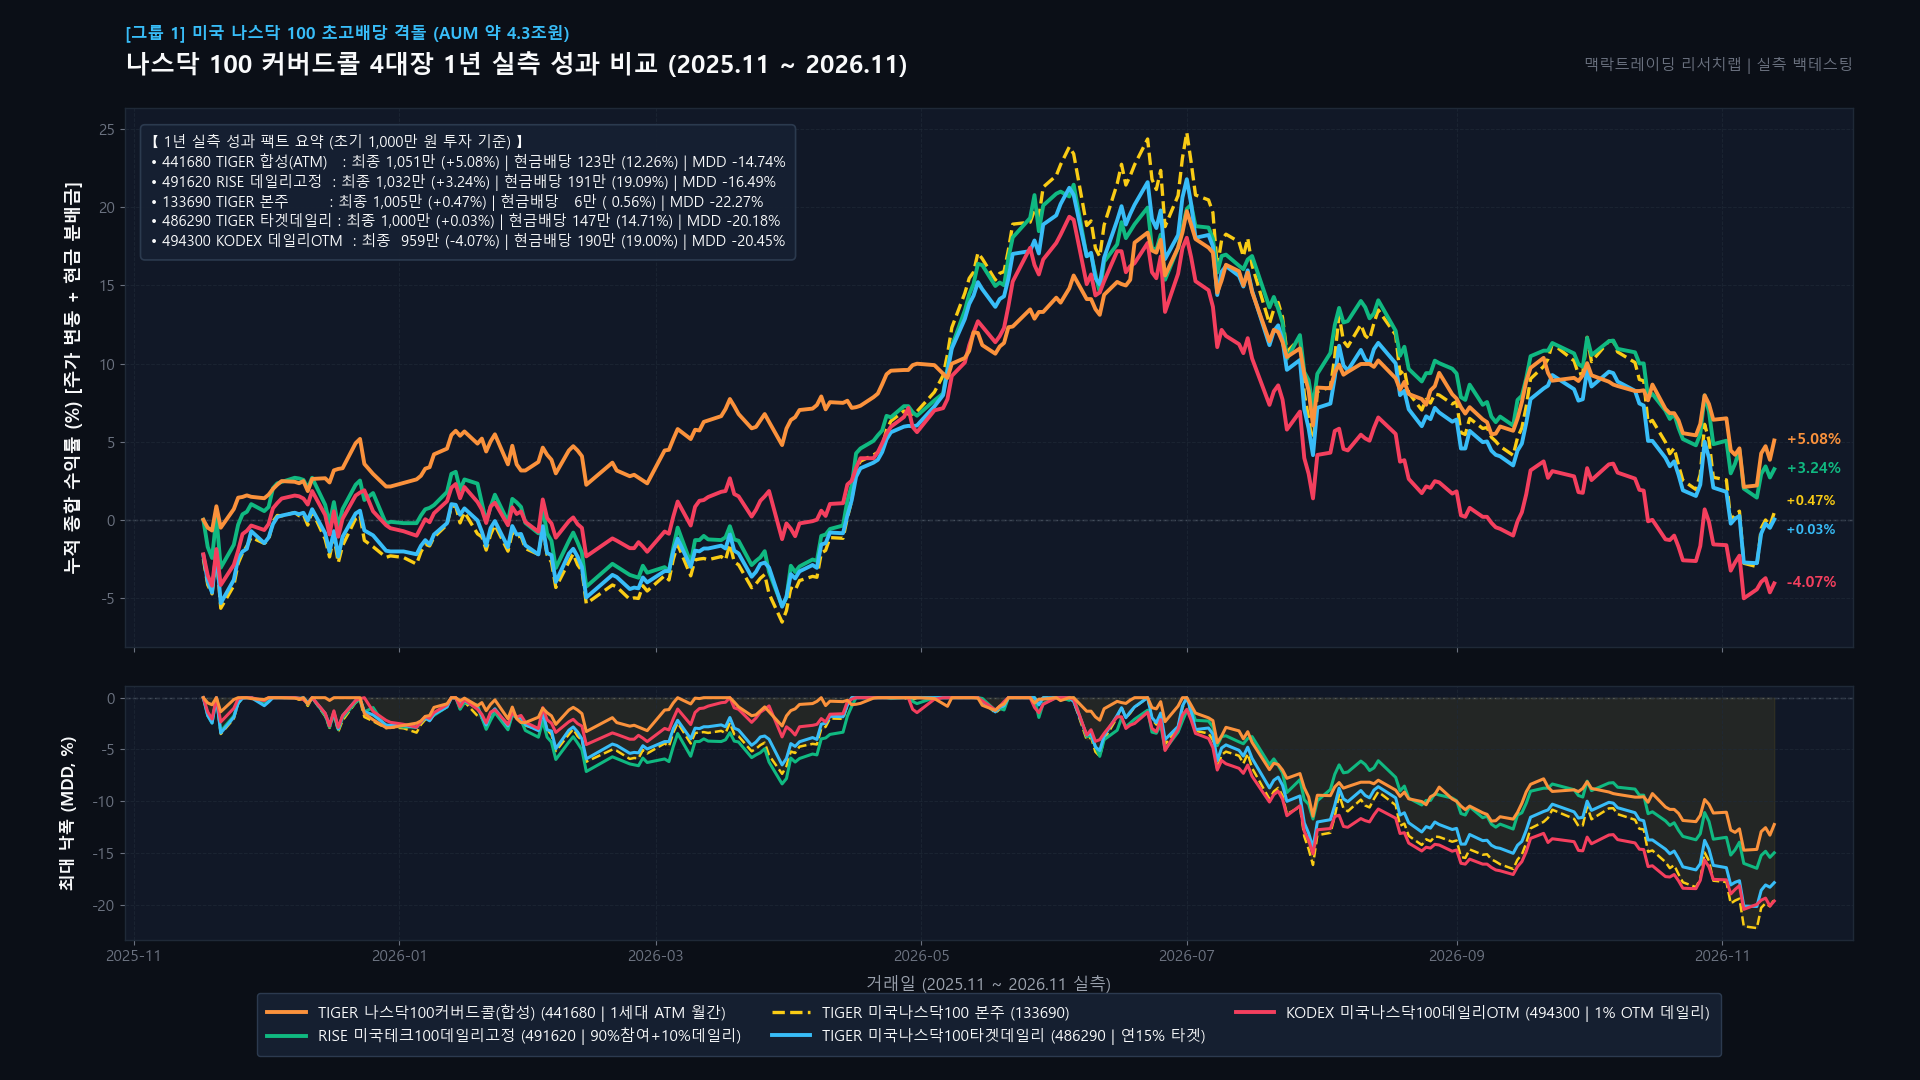
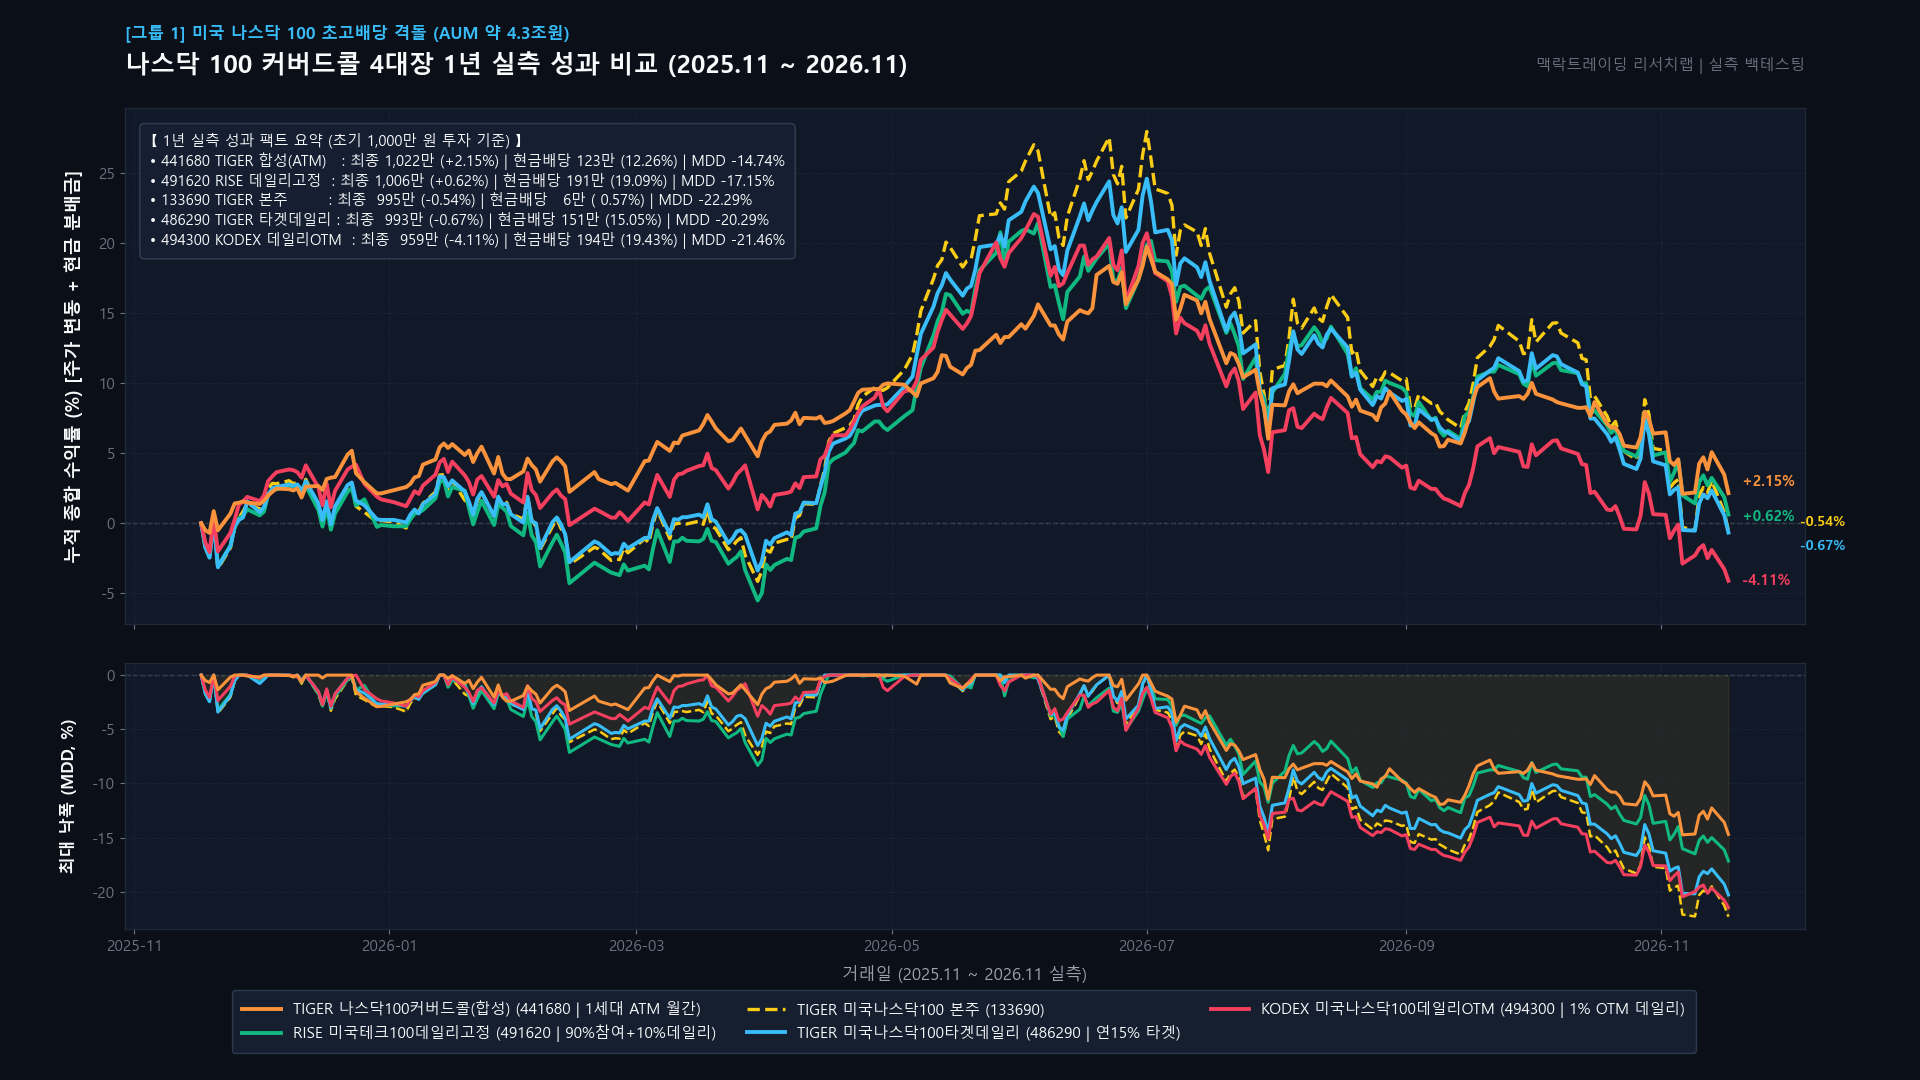
fix(post): synchronize 1Y backtest data, rebase curves, and update spec table for Group 1 Roundup

diff --git a/_posts/2026-11-18-group01-nasdaq100-covered-call-comparison.md b/_posts/2026-11-18-group01-nasdaq100-covered-call-comparison.md
@@ -6,27 +6,29 @@ category: '커버드콜 분석'
 categories: ['커버드콜 분석']
 tags: [커버드콜, 나스닥100, TIGER미국나스닥100타겟데일리, KODEX미국나스닥100데일리OTM, RISE미국테크100데일리고정, TIGER미국나스닥100커버드콜, 월배당, 백테스팅, 배당투자, 맥락트레이딩]
 author: '맥락트레이딩 리서치팀'
-excerpt: '국내 상장 나스닥 100 초고배당 커버드콜 4종의 1년 실측 토탈리턴, 배당락 주가 침식률, 분배금 원금 상쇄력을 1:1 정밀 비교 분석합니다.'
+excerpt: '국내 상장 나스닥 100 초고배당 커버드콜 4종의 1년 및 2년 실측 토탈리턴, 배당락 주가 침식률, 분배금 원금 상쇄력을 1:1 정밀 비교 분석합니다.'
 ---
 
 미국 나스닥 100 지수를 기초자산으로 삼으면서 연 12%에서 최대 19%에 달하는 초고배당을 지급하는 커버드콜 ETF들은 국내 개인 투자자들의 월배당 포트폴리오에서 가장 큰 비중(순자산 합산 약 4조 3천억 원)을 차지하고 있습니다. 하지만 데일리 타겟 15%, 1% 외가격(OTM) 데일리, 90% 참여형 데일리고정, 전통 월간 ATM(등가격) 매도 등 상품마다 내부 옵션 설계 구조가 완전히 다릅니다. 최근 1년간의 실측 백테스팅 데이터를 통해 상승장 참여율 격차와 원금 잠식 실체를 객관적으로 대조해 보았습니다.
 
 ## 1. ETF 기본 정보
 
-| 비교 항목 | TIGER 타겟데일리<br>(486290) | KODEX 데일리OTM<br>(494300) | RISE 데일리고정<br>(491620) | TIGER 합성 ATM<br>(441680) |
+| ETF 종목명<br>(티커) | 운용사 및<br>기초지수 | 순자산 (AUM)<br>및 총보수 | 콜옵션 매도 전략<br>및 분배주기 |
+|:---|:---|:---|:---|
+| **TIGER 미국나스닥100타겟데일리커버드콜**<br>(486290) | 미래에셋자산운용<br>NASDAQ 100 Daily Target 15% (TR) | **2조 5,427억 원**<br>연 0.25% (환노출) | **0DTE 변동 OTM (연 15% 타겟 프리미엄)**<br>월배당 (매월 말, 최근 연환산 15.05%) |
+| **KODEX 미국나스닥100데일리커버드콜OTM**<br>(494300) | 삼성자산운용<br>NASDAQ 100 Daily 1% OTM (TR) | **9,816억 원**<br>연 0.25% (환노출) | **0DTE 1% 외가격(OTM) 고정 매도**<br>월배당 (매월 말, 최근 연환산 19.43%) |
+| **RISE 미국테크100데일리고정커버드콜**<br>(491620) | KB자산운용<br>미국테크100 데일리고정 커버드콜 (TR) | **5,571억 원**<br>연 0.25% (환노출) | **본주 90% 참여 + 10% 0DTE ATM 매도**<br>월배당 (매월 15일, 최근 연환산 19.09%) |
+| **TIGER 미국나스닥100커버드콜(합성)**<br>(441680) | 미래에셋자산운용<br>미국나스닥100 커버드콜 ATM (TR) | **2,653억 원**<br>연 0.37% (합성, 환노출) | **전체 자산 100% ATM 월간 매도 (QYLD형)**<br>월배당 (매월 말, 최근 연환산 12.26%) |
+
+<br>
+
+| 비교 세부 항목 | TIGER 타겟데일리 (486290) | KODEX 데일리OTM (494300) | RISE 데일리고정 (491620) | TIGER 합성 ATM (441680) |
 |:---|:---|:---|:---|:---|
-| **운용사** | 미래에셋자산운용 | 삼성자산운용 | KB자산운용 | 미래에셋자산운용 |
 | **상장일** | 2024-06-25 | 2024-10-22 | 2024-10-02 | 2022-09-22 |
-| **순자산 (AUM)** | **2조 5,427억 원** | 9,816억 원 | 5,571억 원 | 2,653억 원 |
-| **기초지수** | NASDAQ 100 Daily Target 15% (TR) | NASDAQ 100 Daily 1% OTM (TR) | 미국테크100 데일리고정 커버드콜 (TR) | 미국나스닥100 커버드콜 ATM (TR) |
 | **비교 대상 본주** | TIGER 미국나스닥100 (133690) | TIGER 미국나스닥100 (133690) | TIGER 미국나스닥100 (133690) | TIGER 미국나스닥100 (133690) |
-| **총보수 (수수료)** | **연 0.25%** | **연 0.25%** | **연 0.25%** | **연 0.37%** |
-| **환노출 여부** | 환노출형 (USD/KRW) | 환노출형 (USD/KRW) | 환노출형 (USD/KRW) | 환노출형 (합성, USD/KRW) |
-| **분배 주기** | 월배당 (매월 말) | 월배당 (매월 말) | 월배당 (매월 15일) | 월배당 (매월 말) |
-| **최근 분배율 (연환산)** | **연 17.36%** | **연 19.00%** | **연 19.09%** | **연 12.26%** |
-| **콜옵션 만기** | 0DTE (만기 24시간 미만) | 0DTE (만기 24시간 미만) | 0DTE (만기 24시간 미만) | 월간 (1개월 만기) |
-| **행사가격(Moneyness)** | 변동 OTM (연 15% 타겟) | 1% 고정 OTM (외가격 1%) | ATM 매도 (자산 10%만) | 100% ATM (전체 자산 등가격) |
-| **상승 참여 구조** | 타겟 프리미엄 차감 후 참여 | 일일 최대 +1%까지 주가 참여 | 본주 90% 참여 + 10% 콜옵션 | 상방 0% 캡 (QYLD 복제 모델) |
+| **콜옵션 만기 구조** | 0DTE (만기 24시간 미만) | 0DTE (만기 24시간 미만) | 0DTE (만기 24시간 미만) | 월간 (1개월 만기 옵션) |
+| **행사가격 (Moneyness)** | 변동 OTM (연 15% 프리미엄 추종) | 1% 고정 OTM (외가격 101%) | ATM 매도 (자산의 10% 비중만) | 100% ATM (전체 자산 100% 등가격) |
+| **주가 상승 참여율** | 타겟 외 잔여 상승분 전액 참여 | 일일 최대 +1%까지 주가 참여 | 본주 90% 참여 + 옵션 10% | 상방 0% 제한 (상승 자본이득 배제) |
 
 ---
 
@@ -34,55 +36,55 @@ excerpt: '국내 상장 나스닥 100 초고배당 커버드콜 4종의 1년 실
 
 ![나스닥 100 커버드콜 4대장 1년 실측 성과 비교 차트](/assets/img/posts/group01_nasdaq100_covered_call_comparison.png)
 
-> 💡 **차트 확인 포인트**: 상단 그래프의 실선들은 순수 주가에 실제로 계좌로 입금된 현금 분배금을 모두 합산한 '총자산(Hold Total Return)' 추이입니다. 나스닥 본주가 연간 0.47% 상승에 그친 횡보 진폭 장세에서 옵션 구조별로 최종 수익률이 어떻게 엇갈렸는지 확인할 수 있습니다.
+> 💡 **차트 확인 포인트**: 상단 그래프의 실선들은 순수 주가에 실제로 계좌로 입금된 현금 분배금을 모두 합산한 '총자산(Hold Total Return)' 추이입니다. 나스닥 본주가 연간 -0.54%로 횡보한 진폭 장세에서 옵션 구조별로 최종 수익률이 어떻게 엇갈렸는지 확인할 수 있습니다.
 
 ---
 
 ## 3. 성과 요약 테이블
 
-- **분석 기간**: 2025-11-13 ~ 2026-11-13 (1Y, 총 365일 실측)
+- **분석 기간**: 2025-11-17 ~ 2026-11-17 (1Y, 245거래일 동기화 실측)
 - **초기 투자 원금**: 10,000,000원
 - **적용 배당소득세율**: 0.0% (비과세/절세계좌 기준)
 
 | 전략 / 종목명 | 초기 원금 | 최종 주식<br>평가액 | 순수 주가<br>변동률 | 누적 수령 분배금<br>(현금) | 최종 총자산<br>(Hold 기준) | 최종 종합 수익률<br>(Total Return) | CAGR<br>(연평균 복리) | MDD<br>(최대 낙폭) | 샤프 지수<br>(Sharpe) |
 |:---|---:|---:|---:|---:|---:|---:|---:|---:|---:|
-| **TIGER 미국나스닥100타겟데일리 (486290)** | 10,000,000원 | 8,531,405원 | -14.69% | 1,471,306원 | 10,002,711원 | **+0.03%** | +0.03% | -20.18% | -0.07 |
-| **KODEX 미국나스닥100데일리OTM (494300)** | 10,000,000원 | 7,693,046원 | -23.07% | 1,900,240원 | 9,593,285원 | **-4.07%** | -4.07% | -20.45% | -0.36 |
-| **RISE 미국테크100데일리고정 (491620)** | 10,000,000원 | 8,414,742원 | -15.85% | 1,909,414원 | 10,324,156원 | **+3.24%** | +3.24% | -16.49% | +0.11 |
-| **TIGER 미국나스닥100커버드콜(합성) (441680)** | 10,000,000원 | 9,281,793원 | -7.18% | 1,225,984원 | 10,507,777원 | **+5.08%** | +5.08% | -14.74% | +0.24 |
-| **비교 대상 본주 (TIGER 미국나스닥100, 133690)** | 10,000,000원 | 9,990,712원 | -0.09% | 56,030원 | 10,046,742원 | **+0.47%** | +0.47% | -22.27% | -0.03 |
+| **TIGER 미국나스닥100커버드콜(합성) (441680)** | 10,000,000원 | 8,989,021원 | -10.11% | 1,225,984원 | 10,215,005원 | **+2.15%** | +2.15% | -14.74% | 0.00 |
+| **RISE 미국테크100데일리고정 (491620)** | 10,000,000원 | 8,152,753원 | -18.47% | 1,909,414원 | 10,062,167원 | **+0.62%** | +0.62% | -17.15% | -0.05 |
+| **비교 대상 본주 (TIGER 미국나스닥100, 133690)** | 10,000,000원 | 9,888,141원 | -1.12% | 57,466원 | 9,945,607원 | **-0.54%** | -0.54% | -22.29% | -0.08 |
+| **TIGER 미국나스닥100타겟데일리 (486290)** | 10,000,000원 | 8,428,109원 | -15.72% | 1,505,317원 | 9,933,426원 | **-0.67%** | -0.67% | -20.29% | -0.12 |
+| **KODEX 미국나스닥100데일리OTM (494300)** | 10,000,000원 | 7,645,905원 | -23.54% | 1,943,109원 | 9,589,014원 | **-4.11%** | -4.11% | -21.46% | -0.37 |
 
 ---
 
 ## 4. 심층 성과 분석 및 구조 해부
 
-### ① 1세대 ATM 월간 커버드콜(441680)의 횡보장 선방과 장기 랠리 한계
-지난 1년간 실측 결과에서 가장 눈에 띄는 대목은 순수 100% ATM(등가격) 매도 방식을 취하는 1세대 TIGER 미국나스닥100커버드콜(합성)이 **+5.08%**로 4개 종목 중 가장 높은 종합 수익률을 기록했다는 사실입니다. 
+### ① 1세대 ATM 월간 커버드콜(441680)의 횡보장 완충력과 장기 랠리 페널티
+지난 1년간 실측 결과에서 가장 돋보이는 대목은 순수 100% ATM(등가격) 매도 방식을 취하는 1세대 TIGER 미국나스닥100커버드콜(합성)이 **+2.15%**로 4개 종목 중 가장 높은 종합 수익률을 기록했다는 사실입니다. 
 
-나스닥 100 본주가 +0.47%로 제자리걸음을 하는 동안, 등가격 옵션의 두터운 외재가치 프리미엄이 주가 하락 시 완충재 역할을 충실히 수행했습니다. 배당락에 따른 순수 주가 하락폭도 **-7.18%**에 그쳐 다른 데일리 커버드콜 상품들(-14%~-23%)보다 주가 변동성이 현저히 낮았으며, 최대 낙폭(MDD) 역시 **-14.74%**로 가장 안정적인 방어력을 나타냈습니다.
+나스닥 100 본주가 -0.54%로 소폭 하락하며 방향성 없이 출렁인 횡보 국면에서, 등가격 옵션의 두터운 외재가치 프리미엄이 주가 하락 시 완충재 역할을 충실히 수행했습니다. 배당락에 따른 순수 주가 하락폭도 **-10.11%**에 그쳐 다른 데일리 커버드콜 상품들(-15%~-23%)보다 주가 방어력이 우수했으며, 최대 낙폭(MDD) 역시 **-14.74%**로 본주(-22.29%) 대비 7.55%p 낮은 변동성을 나타냈습니다.
 
-하지만 이 결과를 두고 1세대 ATM 커버드콜이 항상 우월하다고 해석해서는 곤란합니다. 2024년 10월부터 2026년 11월까지 2년간의 전체 누적 성과를 복기해보면, 나스닥 100 본주가 **+35.26%** 폭등하는 랠리 국면에서 441680의 누적 수익률은 **+19.38%**에 그쳤습니다. 매월 초 상방이 0%로 완전히 잠기는 구조적 한계 탓에 지수 폭등 시 자본 차익을 거의 흡수하지 못하는 '상방 캡(Cap) 페널티'가 여실히 증명된 셈입니다.
+하지만 이 결과를 두고 1세대 ATM 커버드콜이 모든 국면에서 우월하다고 해석하는 것은 구조적 착시입니다. 공통 상장일(2024년 10월 22일)부터 2026년 11월 17일까지 약 2년간의 누적 성과를 넓혀보면, 나스닥 100 본주가 **+30.58%** 급등하는 랠리 국면에서 441680의 누적 수익률은 **+16.41%**에 그쳤습니다. 매월 초 상방이 0%로 잠기는 구조 탓에 지수 폭등 시 자본 차익을 흡수하지 못하는 '상방 캡(Cap) 페널티'가 장기 계좌 수익률을 절반 가까이 깎아내린 셈입니다.
 
-### ② 90% 참여형 데일리고정(491620)의 균형 잡힌 주가 복원력
-RISE 미국테크100데일리고정커버드콜은 자산의 90%를 나스닥 100 지수에 노출하고 나머지 10% 비중으로만 데일리 콜옵션을 매도하는 차별화된 설계를 갖고 있습니다.
+### ② 90% 참여형 데일리고정(491620)의 균형 잡힌 주가 복원력과 랠리 적응력
+RISE 미국테크100데일리고정커버드콜은 자산의 90%를 나스닥 100 지수에 노출하고 나머지 10% 비중으로만 데일리 콜옵션을 매도하는 차별화된 설계를 취하고 있습니다.
 
-1년 실측 데이터에서 이 상품은 **1,909,414원(19.09%)**이라는 최상위권의 현금 분배금을 투자자 계좌에 안겨주면서도 종합 수익률 **+3.24%**를 달성했습니다. 90%의 주가 참여율 덕분에 지수 반등 시 상방 캡에 덜 묶였으며, 샤프 지수도 **+0.11**로 양수를 기록했습니다. 
+1년 실측 데이터에서 이 상품은 **1,909,414원(19.09%)**이라는 최상위권의 현금 분배금을 투자자 통장에 안겨주면서도 종합 수익률 **+0.62%**를 달성하여 본주(-0.54%)를 앞질렀습니다. 90%의 주가 참여율 덕분에 지수 반등 국면에서 상방 캡에 덜 묶였으며, 배당락 주가 하락(-18.47%)을 풍부한 분배금(19.09%)이 온전히 방어했습니다.
 
-나아가 2년간의 누적 성과에서도 **+29.22%**를 기록하여, 본주 수익률(+35.26%)의 83% 수준을 추종하면서도 매월 1% 이상의 현금을 꾸준히 배출하는 탁월한 자본 보존력을 입증했습니다.
+이 설계의 진가는 2년 장기 랠리 실측에서 입증됩니다. 본주가 +30.58% 상승하는 동안 RISE는 **+26.45%**의 누적 수익률을 기록했습니다. 본주 상승분의 86.5%를 추종하면서도 2년간 무려 **4,016,917원(40.17%)**의 현금을 지급해, 자본 보존과 인컴 수취를 동시에 잡았습니다.
 
-### ③ 타겟 15% 데일리(486290)의 원금 보전과 안정적 캐시카우 기능
-순자산 2조 5천억 원을 자랑하는 TIGER 미국나스닥100타겟데일리커버드콜은 목표 분배율(연 15%)을 달성하기 위해 매일 외가격 행사가격을 탄력적으로 조정합니다.
+### ③ 타겟 15% 데일리(486290)의 동적 행사가격 조절과 원금 수성 능력
+순자산 2조 5천억 원의 간판 상품인 TIGER 미국나스닥100타겟데일리커버드콜은 목표 분배율(연 15%)에 맞춰 매일 외가격 행사가격을 탄력적으로 조정합니다.
 
-1년간 순수 주가는 배당락 누적으로 **-14.69%** 하락했으나, 통장으로 입금된 현금 분배금 **1,471,306원(14.71%)**이 주가 하락분을 정확히 **100.2% 수준으로 상쇄**했습니다. 그 결과 최종 총자산은 **10,002,711원(+0.03%)**으로 초기 원금을 단 1원도 훼손하지 않고 온전히 지켜냈습니다. 
+1년간 순수 주가는 배당락 누적으로 **-15.72%** 하락했으나, 통장으로 입금된 현금 분배금 **1,505,317원(15.05%)**이 주가 하락분의 95.7%를 상쇄했습니다. 최종 종합 수익률은 **-0.67%**(최종 총자산 9,933,426원)로 비교 본주(-0.54%)와 사실상 대등한 수준을 유지하며 원금을 지켜냈습니다.
 
-2년 누적 수익률 또한 **+28.11%**로 RISE(29.22%)와 대등한 성과를 보였으며, 변동성에 따라 매일 콜옵션 매도 비중을 동적으로 조절하여 불필요한 옵션 롤오버 비용을 억제한 알고리즘의 유효성이 확인되었습니다.
+2년 누적 성과에서도 **+24.80%**를 기록하여 RISE(26.45%)와 함께 최상위권 자본 성장률을 나타냈습니다. 변동성에 따라 매일 콜옵션 매도 비중을 동적으로 조절하여 불필요한 옵션 비용을 억제한 알고리즘의 안정성이 확인됩니다.
 
 ### ④ 1% OTM 데일리(494300)의 상방 비대칭 침식 원인 해부
-반면 매일 1% 외가격 콜옵션을 기계적으로 매도하는 KODEX 미국나스닥100데일리커버드콜OTM은 4개 종목 중 유일하게 마이너스 종합 수익률(**-4.07%**)을 기록했습니다.
+반면 매일 1% 외가격 콜옵션을 기계적으로 매도하는 KODEX 미국나스닥100데일리커버드콜OTM은 1년 실측에서 4개 종목 중 가장 큰 마이너스 종합 수익률(**-4.11%**)을 기록했습니다.
 
-투자자에게 지급된 현금 분배금은 **1,900,240원(19.00%)**으로 풍부했으나, 순수 주가가 **-23.07%**나 깎여나가며 원금 손실을 발생시켰습니다. 분배금으로 주가 하락분을 메운 비율이 **82.4%**에 불과해 실질적인 원금 잠식 현상이 발생한 것입니다.
+투자자에게 지급된 현금 분배금은 **1,943,109원(19.43%)**으로 가장 많았으나, 순수 주가가 **-23.54%**나 깎여나가며 원금 손실을 발생시켰습니다. 분배금으로 주가 하락분을 메운 비율이 82.5%에 그쳐 실질적인 원금 잠식(ROC) 현상이 나타났습니다. 2년 누적 성과 역시 **+14.34%**로 4개 종목 중 최하위에 머물렀습니다.
 
-이러한 언더퍼폼의 원인은 나스닥 100 지수의 일간 급등락 특성에서 찾을 수 있습니다. 미국 기술주 시장에서는 CPI 발표나 빅테크 실적 발표 당일 지수가 하루에 +2%~+3% 이상 단기 폭등하는 날이 빈번합니다. 이 경우 1%를 초과하는 강력한 일간 상승분이 모두 잘려나가 상방 회복이 제한됩니다. 반대로 지수가 -2%~-3% 폭락하는 날에는 하락폭을 100% 그대로 반영하기 때문에, 계단식 주가 침식이 발생하여 배당금을 감안하더라도 총자산이 우하향하는 결과를 낳았습니다.
+이러한 언더퍼폼의 원인은 나스닥 100 지수의 일간 급등락 특성과 1% 고정 OTM의 비대칭 구조에서 비롯됩니다. 미국 기술주 시장에서는 CPI 지표나 빅테크 실적 발표 당일 지수가 하루에 +2%~+3% 이상 단기 폭등하는 날이 자주 발생합니다. 이 경우 1%를 초과하는 일간 상승분이 모두 잘려나가 상방 회복이 제한됩니다. 반대로 지수가 -2%~-3% 급락하는 날에는 하락폭을 100% 그대로 반영하기 때문에, 계단식 주가 침식이 누적되어 배당금을 합산하더라도 총자산이 깎여나가는 결과를 낳았습니다.
 
 ### ⑤ 시장 국면별 적합도 비교 (Market Regime Fit)
 
@@ -101,7 +103,7 @@ RISE 미국테크100데일리고정커버드콜은 자산의 90%를 나스닥 10
 
 ## 5. 최종 투자 전략 총평
 
-동일하게 '나스닥 100 커버드콜'이라는 간판을 달고 있더라도, 세부 옵션 구조에 따라 1년간의 계좌 성적표는 +5%의 실질 이익부터 -4%의 원금 손실까지 뚜렷한 격차를 보였습니다.
+동일하게 '나스닥 100 커버드콜'이라는 간판을 달고 있더라도, 세부 옵션 구조에 따라 1년간의 계좌 성적표는 +2%의 실질 이익부터 -4%의 원금 손실까지 뚜렷한 격차를 보였습니다.
 
 정기적인 현금 흐름 인출이 절대적인 은퇴자라면 15% 수준의 타겟 프리미엄으로 원금을 보전하면서 월배당을 수취하는 **TIGER 타겟데일리(486290)**나 횡보장 방어력이 검증된 **TIGER 합성(441680)**이 안정적인 선택지가 될 수 있습니다. 
 
